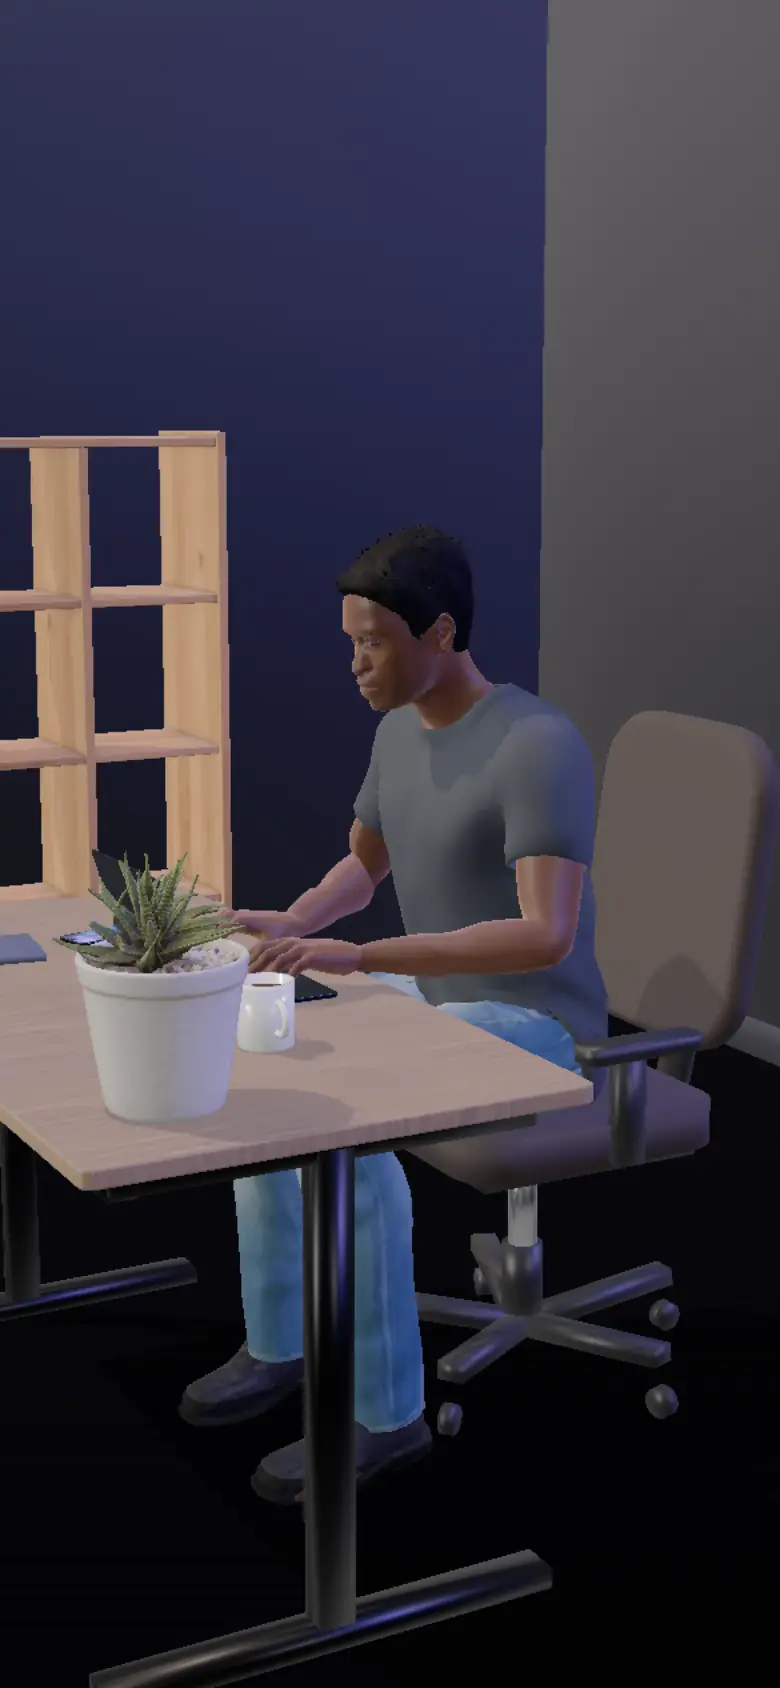
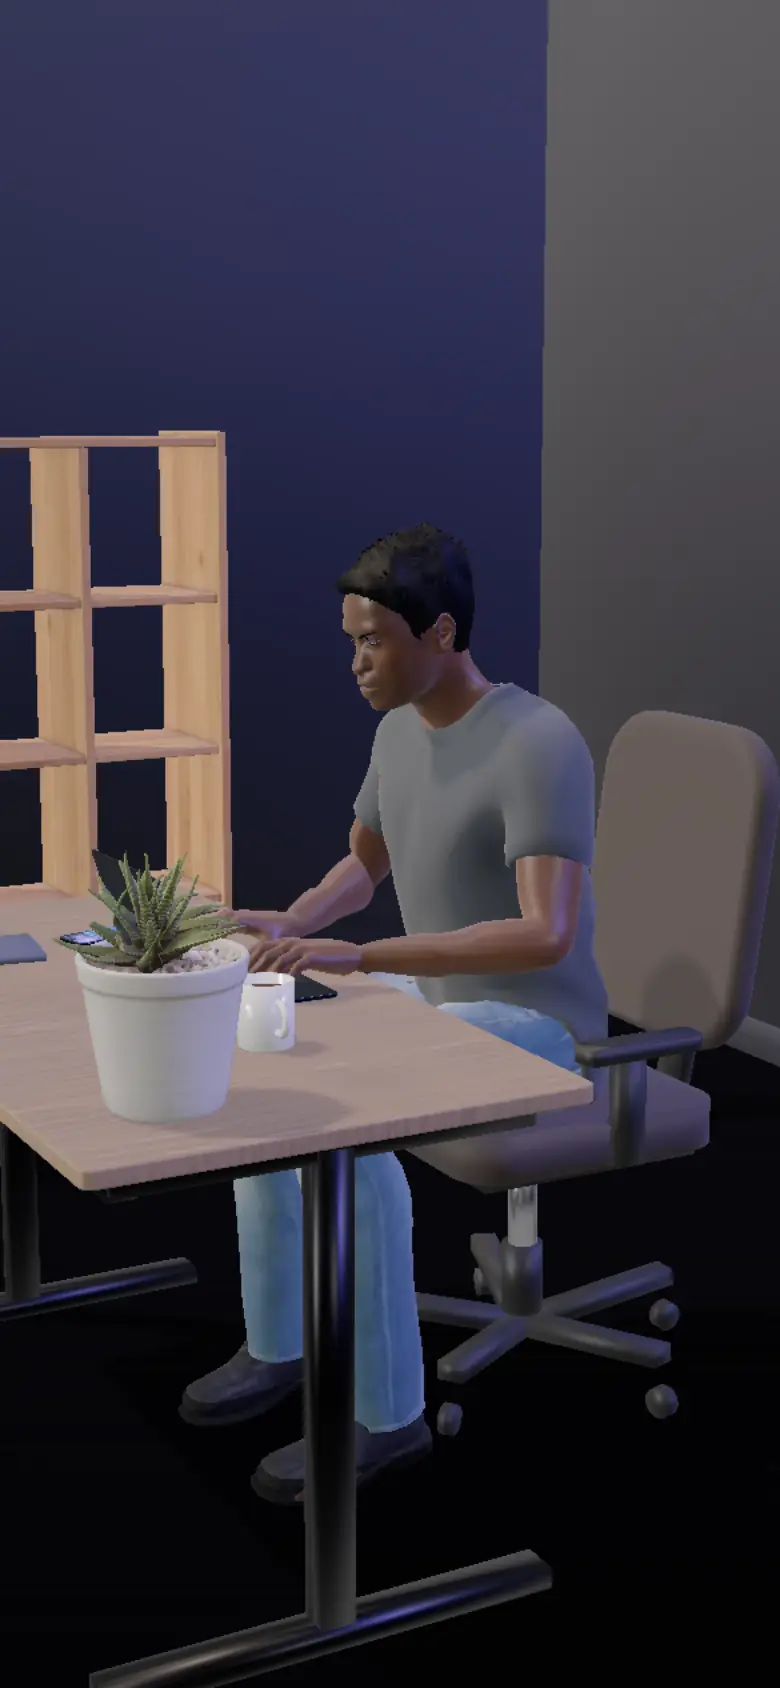
Clean-look pass: soft shadows, calmer surface detail, satin skin and fabric on the hero, games and chess; hero stills re-rendered

diff --git a/components/three/gameStage.ts b/components/three/gameStage.ts
@@ -3,6 +3,7 @@
    bus:  the LAST BUS danfo at night with its passengers. It idles with the engine running; tap it and the
          inside bulb flickers, the bus jolts forward and every passenger slowly turns to look at you. */
 import * as THREE from "three";
+import { polishRenderer, polishLight, polishScene } from "@/components/three/polish";
 import { GLTFLoader } from "three/examples/jsm/loaders/GLTFLoader.js";
 import { MeshoptDecoder } from "three/examples/jsm/libs/meshopt_decoder.module.js";
 import { RoomEnvironment } from "three/examples/jsm/environments/RoomEnvironment.js";
@@ -26,6 +27,7 @@ export function mountGame(el: HTMLElement, kind: GameScene, onReady: () => void,
   renderer.outputColorSpace = THREE.SRGBColorSpace;
   renderer.toneMapping = kind === "buka" ? THREE.NeutralToneMapping : THREE.AgXToneMapping;
   renderer.shadowMap.enabled = true;
+  polishRenderer(renderer);
   const cv = renderer.domElement;
   cv.style.cssText = `position:absolute;inset:0;width:100%;height:100%;display:block;touch-action:${full ? "none" : "pan-y"};cursor:${full ? "grab" : "pointer"}`;
   el.appendChild(cv);
@@ -58,6 +60,7 @@ export function mountGame(el: HTMLElement, kind: GameScene, onReady: () => void,
     const sun = new THREE.DirectionalLight(0xfff1dc, 2.4);
     sun.position.set(-1.5, 4, 3);
     sun.castShadow = true;
+    polishLight(sun);
     sun.shadow.mapSize.set(1024, 1024);
     scene.add(sun);
     camera.position.set(0, 1.2, 3.0);
@@ -66,6 +69,7 @@ export function mountGame(el: HTMLElement, kind: GameScene, onReady: () => void,
       if (!alive) return;
       const o = g.scene;
       o.traverse((m) => { if ((m as THREE.Mesh).isMesh) { m.castShadow = true; m.frustumCulled = false; } });
+      polishScene(o, renderer);
       scene.add(o);
       mixer = new THREE.AnimationMixer(o);
       const clip = (n: string) => g.animations.find((a) => a.name === n);
@@ -99,6 +103,7 @@ export function mountGame(el: HTMLElement, kind: GameScene, onReady: () => void,
           if (!alive) return;
           const set = sg.scene.getObjectByName("set_static") || sg.scene;
           set.traverse((m) => { if ((m as THREE.Mesh).isMesh) { m.castShadow = true; m.receiveShadow = true; } });
+          polishScene(set, renderer);
           scene.add(set);
           renderer.compile(scene, camera);
         }).catch(() => {});
@@ -127,6 +132,7 @@ export function mountGame(el: HTMLElement, kind: GameScene, onReady: () => void,
     const moon = new THREE.DirectionalLight(0x9fb4ff, 1.2);
     moon.position.set(4, 6, 3);
     moon.castShadow = true;
+    polishLight(moon);
     moon.shadow.mapSize.set(1024, 1024);
     Object.assign(moon.shadow.camera, { left: -5, right: 5, top: 5, bottom: -5 });
     const bulb = new THREE.PointLight(0xffc27a, 6, 6, 1.5);
@@ -141,6 +147,7 @@ export function mountGame(el: HTMLElement, kind: GameScene, onReady: () => void,
         const rig = new THREE.Group();
         scene.add(rig);
         bus.scene.traverse((m) => { if ((m as THREE.Mesh).isMesh) { m.castShadow = true; m.receiveShadow = true; } });
+        polishScene(bus.scene, renderer);
         rig.add(bus.scene);
         const box = new THREE.Box3().setFromObject(bus.scene), c = new THREE.Vector3(), sz = new THREE.Vector3();
         box.getCenter(c); box.getSize(sz);
@@ -154,6 +161,7 @@ export function mountGame(el: HTMLElement, kind: GameScene, onReady: () => void,
             if ((m as THREE.Mesh).isMesh) { m.castShadow = true; m.frustumCulled = false; }
             if ((m as THREE.Bone).isBone && /spine\.?006$/.test(m.name)) heads.push({ bone: m, rest: new THREE.Quaternion() });
           });
+          polishScene(g.scene, renderer);
           rig.add(g.scene);
           const mx = new THREE.AnimationMixer(g.scene);
           g.animations.forEach((a) => mx.clipAction(a).play());

diff --git a/components/three/polish.ts b/components/three/polish.ts
@@ -1,0 +1,59 @@
+// components/three/polish.ts
+// One clean-look pass for every 3D scene on the site: softer shadows, calmer surface detail, sharp textures,
+// and smooth satin skin and fabric. Rough, gritty normal maps are toned down so surfaces read as clean and
+// smooth, like a studio render, while keeping their shape and real colours.
+import * as THREE from "three";
+
+const SKIN = /skin|body|face|head/i, CLOTH = /outfit|cloth|shirt|dress|apron|fabric|wrapper|trouser|jean/i, HAIR = /hair|brow|lash|scalp/i;
+
+export function polishRenderer(r: THREE.WebGLRenderer) {
+  // soft, blurred shadow edges instead of hard stair-stepped ones
+  r.shadowMap.type = THREE.VSMShadowMap;
+}
+
+export function polishLight(l: THREE.Light) {
+  const s = (l as THREE.DirectionalLight).shadow;
+  if (!s) return;
+  s.radius = 6;
+  s.blurSamples = 16;
+  s.bias = -0.0002;
+}
+
+export function polishScene(root: THREE.Object3D, r: THREE.WebGLRenderer) {
+  const aniso = r.capabilities.getMaxAnisotropy();
+  root.traverse((o) => {
+    const m = o as THREE.Mesh;
+    if (!m.isMesh) return;
+    const mats = Array.isArray(m.material) ? m.material : [m.material];
+    mats.forEach((mat, i) => {
+      const s = mat as THREE.MeshStandardMaterial;
+      if (!s.isMeshStandardMaterial) return;
+      for (const t of [s.map, s.normalMap, s.roughnessMap, s.emissiveMap]) if (t) { t.anisotropy = aniso; t.needsUpdate = true; }
+      if (s.normalMap) s.normalScale.multiplyScalar(0.4);
+      const name = `${s.name} ${m.name}`;
+      if (SKIN.test(name) && !HAIR.test(name)) {
+        // satin skin: smooth, a soft sheen, light that wraps a little
+        const p = new THREE.MeshPhysicalMaterial({ map: s.map, color: s.color, normalMap: s.normalMap, normalScale: s.normalMap ? s.normalScale.clone().multiplyScalar(0.5) : undefined,
+          roughness: 0.42, metalness: 0, envMapIntensity: 1.25, sheen: 0.3, sheenRoughness: 0.6, sheenColor: new THREE.Color(0xffd9c2), clearcoat: 0.06, clearcoatRoughness: 0.5 });
+        p.name = s.name;
+        if (Array.isArray(m.material)) (m.material as THREE.Material[])[i] = p; else m.material = p;
+        s.dispose();
+        return;
+      }
+      if (CLOTH.test(name)) {
+        // soft fabric: a gentle sheen so folds read clean instead of flat
+        const p = new THREE.MeshPhysicalMaterial({ map: s.map, color: s.color, normalMap: s.normalMap, normalScale: s.normalMap ? s.normalScale.clone() : undefined, roughness: 0.74, sheen: 0.22, sheenRoughness: 0.55, sheenColor: s.color.clone().lerp(new THREE.Color(0xffffff), 0.25) });
+        p.name = s.name;
+        if (Array.isArray(m.material)) (m.material as THREE.Material[])[i] = p; else m.material = p;
+        s.dispose();
+        return;
+      }
+      else if (HAIR.test(name)) {
+        // clean hair edges: smooth anti-aliased cut-out instead of jagged blocks
+        s.roughness = 0.55; // keep the hair cards' own transparency
+      }
+      else s.roughness = Math.min(s.roughness, 0.85);
+      s.needsUpdate = true;
+    });
+  });
+}

diff --git a/components/three/chess/chessStage.ts b/components/three/chess/chessStage.ts
@@ -3,6 +3,7 @@
 // Hover or tap a piece to see what it stands for. Tap one of your white pieces, then a glowing square, to play a move;
 // black answers. Board and pieces use CC0 Poly Haven wood (ash, black walnut, flamed black veneer).
 import * as THREE from "three";
+import { polishRenderer, polishLight } from "@/components/three/polish";
 import { RoomEnvironment } from "three/examples/jsm/environments/RoomEnvironment.js";
 import { mergeGeometries } from "three/examples/jsm/utils/BufferGeometryUtils.js";
 import { BLACK, ORDER, WHITE, type Kind, type Tech } from "./pieces";
@@ -122,6 +123,7 @@ export function mountChess(el: HTMLElement, opts: { dark: boolean; onInfo: (i: P
   renderer.toneMappingExposure = 1.05;
   renderer.shadowMap.enabled = true;
   renderer.shadowMap.type = THREE.PCFShadowMap;
+  polishRenderer(renderer);
   el.appendChild(renderer.domElement);
   renderer.domElement.style.touchAction = "pan-y";
 
@@ -139,6 +141,7 @@ export function mountChess(el: HTMLElement, opts: { dark: boolean; onInfo: (i: P
   key.shadow.bias = -0.0004;
   key.shadow.normalBias = 0.02;
   key.shadow.radius = 4;
+  polishLight(key);
   scene.add(key, new THREE.HemisphereLight(0xfff6ea, 0x3a2a1e, 0.55));
   const rim = new THREE.DirectionalLight(0xcfe0ff, 0.9);
   rim.position.set(6, 5, -7);
@@ -161,11 +164,11 @@ export function mountChess(el: HTMLElement, opts: { dark: boolean; onInfo: (i: P
 
   const lacquer = (t: { map: THREE.Texture; normalMap: THREE.Texture }, color: number, rough: number, ns = 0.35, coat = 1, coatR = 0.12) =>
     new THREE.MeshPhysicalMaterial({ ...t, color, roughness: rough, clearcoat: coat, clearcoatRoughness: coatR, normalScale: new THREE.Vector2(ns, ns) });
-  const mLight = lacquer(ash, 0xfff1dc, 0.6, 0.12, 0.35, 0.35);
-  const mDark = lacquer(walnut, 0x7a6352, 0.55, 0.12, 0.35, 0.35);
-  const mFrame = lacquer(walnut, 0x6e5545, 0.45, 0.3, 0.8, 0.2);
-  const mWhite = lacquer(ash, 0xffe9cc, 0.3, 0.25);
-  const mBlack = lacquer(ebony, 0x3a302b, 0.32, 0.25);
+  const mLight = lacquer(ash, 0xfff1dc, 0.5, 0.05, 0.5, 0.25);
+  const mDark = lacquer(walnut, 0x7a6352, 0.48, 0.05, 0.5, 0.25);
+  const mFrame = lacquer(walnut, 0x6e5545, 0.4, 0.1, 0.9, 0.15);
+  const mWhite = lacquer(ash, 0xffe9cc, 0.24, 0.08);
+  const mBlack = lacquer(ebony, 0x3a302b, 0.26, 0.08);
   const mFelt = new THREE.MeshStandardMaterial({ color: 0x1d3b2a, roughness: 1 });
   // tech logos: one 8 x 4 atlas, a cream enamel badge with a brass rim on the front of every piece
   const atlas = tex("logos", true);

diff --git a/components/three/deskStage.ts b/components/three/deskStage.ts
@@ -2,6 +2,7 @@
    Plain three.js so it stays light. Scroll moves the camera through four stops, the pointer makes it drift,
    and the camera is always kept outside the body, like walking round a statue. */
 import * as THREE from "three";
+import { polishRenderer, polishLight, polishScene } from "@/components/three/polish";
 import { GLTFLoader } from "three/examples/jsm/loaders/GLTFLoader.js";
 import { MeshoptDecoder } from "three/examples/jsm/libs/meshopt_decoder.module.js";
 import { RoomEnvironment } from "three/examples/jsm/environments/RoomEnvironment.js";
@@ -37,6 +38,7 @@ export function mountDesk(canvas: HTMLCanvasElement, opts: { mobile: boolean; mo
   renderer.outputColorSpace = THREE.SRGBColorSpace;
   renderer.shadowMap.enabled = true;
   renderer.shadowMap.type = THREE.PCFShadowMap;
+  polishRenderer(renderer);
 
   const scene = new THREE.Scene();
   const pmrem = new THREE.PMREMGenerator(renderer);
@@ -58,6 +60,7 @@ export function mountDesk(canvas: HTMLCanvasElement, opts: { mobile: boolean; mo
   floor.rotation.x = -Math.PI / 2;
   floor.receiveShadow = true;
   scene.add(hemi, key, rim, fill, floor);
+  polishLight(key);
 
   const bgCanvas = document.createElement("canvas");
   bgCanvas.width = 2;
@@ -121,6 +124,7 @@ export function mountDesk(canvas: HTMLCanvasElement, opts: { mobile: boolean; mo
             m.castShadow = false;
           }
         });
+        polishScene(g.scene, renderer);
         scene.add(g.scene);
       }
       mixer = new THREE.AnimationMixer(dev.scene);
@@ -148,6 +152,7 @@ export function mountDesk(canvas: HTMLCanvasElement, opts: { mobile: boolean; mo
           if (c.z < -1.0) backWall.push(m);
           else if (c.x < -1.9) sideWall.push(m);
         });
+        polishScene(room.scene, renderer);
         scene.add(room.scene);
         tintWalls();
       }).catch(() => {});
